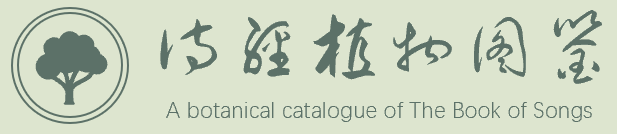
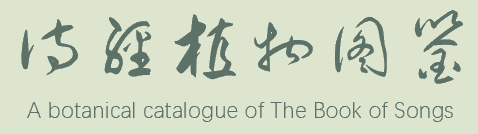
首页

Changed region(s): [[0.0, 0.0299, 0.9958, 0.9254]]

diff --git a/index.html b/index.html
@@ -4,14 +4,34 @@
     <meta charset="UTF-8">
     <title>诗经植物图鉴数据库</title>
     <link rel="stylesheet" type="text/css" href="./main.css">
+    <link rel="shortcut icon" href="src/icon.png"/>
     <style>
+        #word{
+            margin-left: 20%;
+            margin-top: 70px;
+            width: 62%;
+        }
+        img{
+            width: 50%;
+            margin-top: 6%;
+            margin-left: 50%;
+        }
+        p{
+            font-size: larger;
+            margin-top: 2.5%;
+            margin-bottom: 2%;
+        }
     </style>
 </head>
 <body>
-<iframe src="head.html" frameborder="0" scrolling="no" onload="this.height=top.document.body.scrollHeight"
+<iframe src="head.html" frameborder="0" scrolling="no"
         height="170" width="100%"></iframe>
-<div>
-    讲讲这个网站的功能，以及出现的原因
+<div id="word">
+    <p>这里是诗经植物图鉴，一个让古籍中的植物鲜活起来的网站。</p>
+    <p>我们从《诗经》里梳理出了148种植物，并按照时间顺序，配合《毛诗故训传》、《毛诗笺》、《毛诗草木鸟兽虫鱼疏》、《毛诗正义》、《诗集传》、《本草纲目》等书目做了注疏整理，意在让历史上植物注解的发展变化一目了然。如果你需要一些现代植物学方面的信息，这里也有《中国植物志》。我们将《诗经》中的植物进行古今考辨和对应，并在《补遗雷公炮制便览》、《诗经名物图解》、《中国植物志》中找出相对应的配图，希望可以图文并茂的呈现植物的相关信息。</p>
+    <p>欢迎大家来到这里与我们一起共同探寻《诗经》的美好与植物的奇妙！</p>
+    <p>之后，我们也会尽力完善网站功能和植物相关信息。如果您有什么想对我们说的，欢迎给我们发邮件：perfectymx@foxmail.com。同时，网站也注册了微信公众号：“诗经植物图鉴”，期待您的关注！</p>
+    <img src="src/white.png" alt="" >
 </div>
 </body>
 </html>

diff --git a/head.html b/head.html
@@ -42,7 +42,8 @@
 <body>
 <div style="display: flex;background-color: #dde5cf;margin: 0">
     <div style="margin-left: 2%"></div>
-    <div style="margin: 1%"><img src="./src/main-ico.png" alt="诗经植物图鉴" width="400"></div>
+    <div style="margin-top: 22px;"><img src="src/icon.png" alt="" width="90"></div>
+    <div style="margin-top: 17px;margin-left: 10px"><img src="./src/main-ico.png" alt="诗经植物图鉴" width="400"></div>
     <div style="margin: auto;width:60%;color: #64786f;font-size: 24px">
         <p>诗，可以兴，可以观，可以群，可以怨；迩之事父，远之事君；多识于鸟兽草木之名</p>
     </div>

diff --git a/list.html b/list.html
@@ -31,7 +31,7 @@
 </head>
 <body>
 <iframe src="head.html" frameborder="0" scrolling="no"
-        height="164" width="100%"></iframe>
+        height="170" width="100%"></iframe>
 <div style="display: flex">
     <div style="margin-top: 3%;display:inline;margin-left: 5%;width: 14%;overflow-y:auto;height: 700px">
         <span>诗经植物</span>
